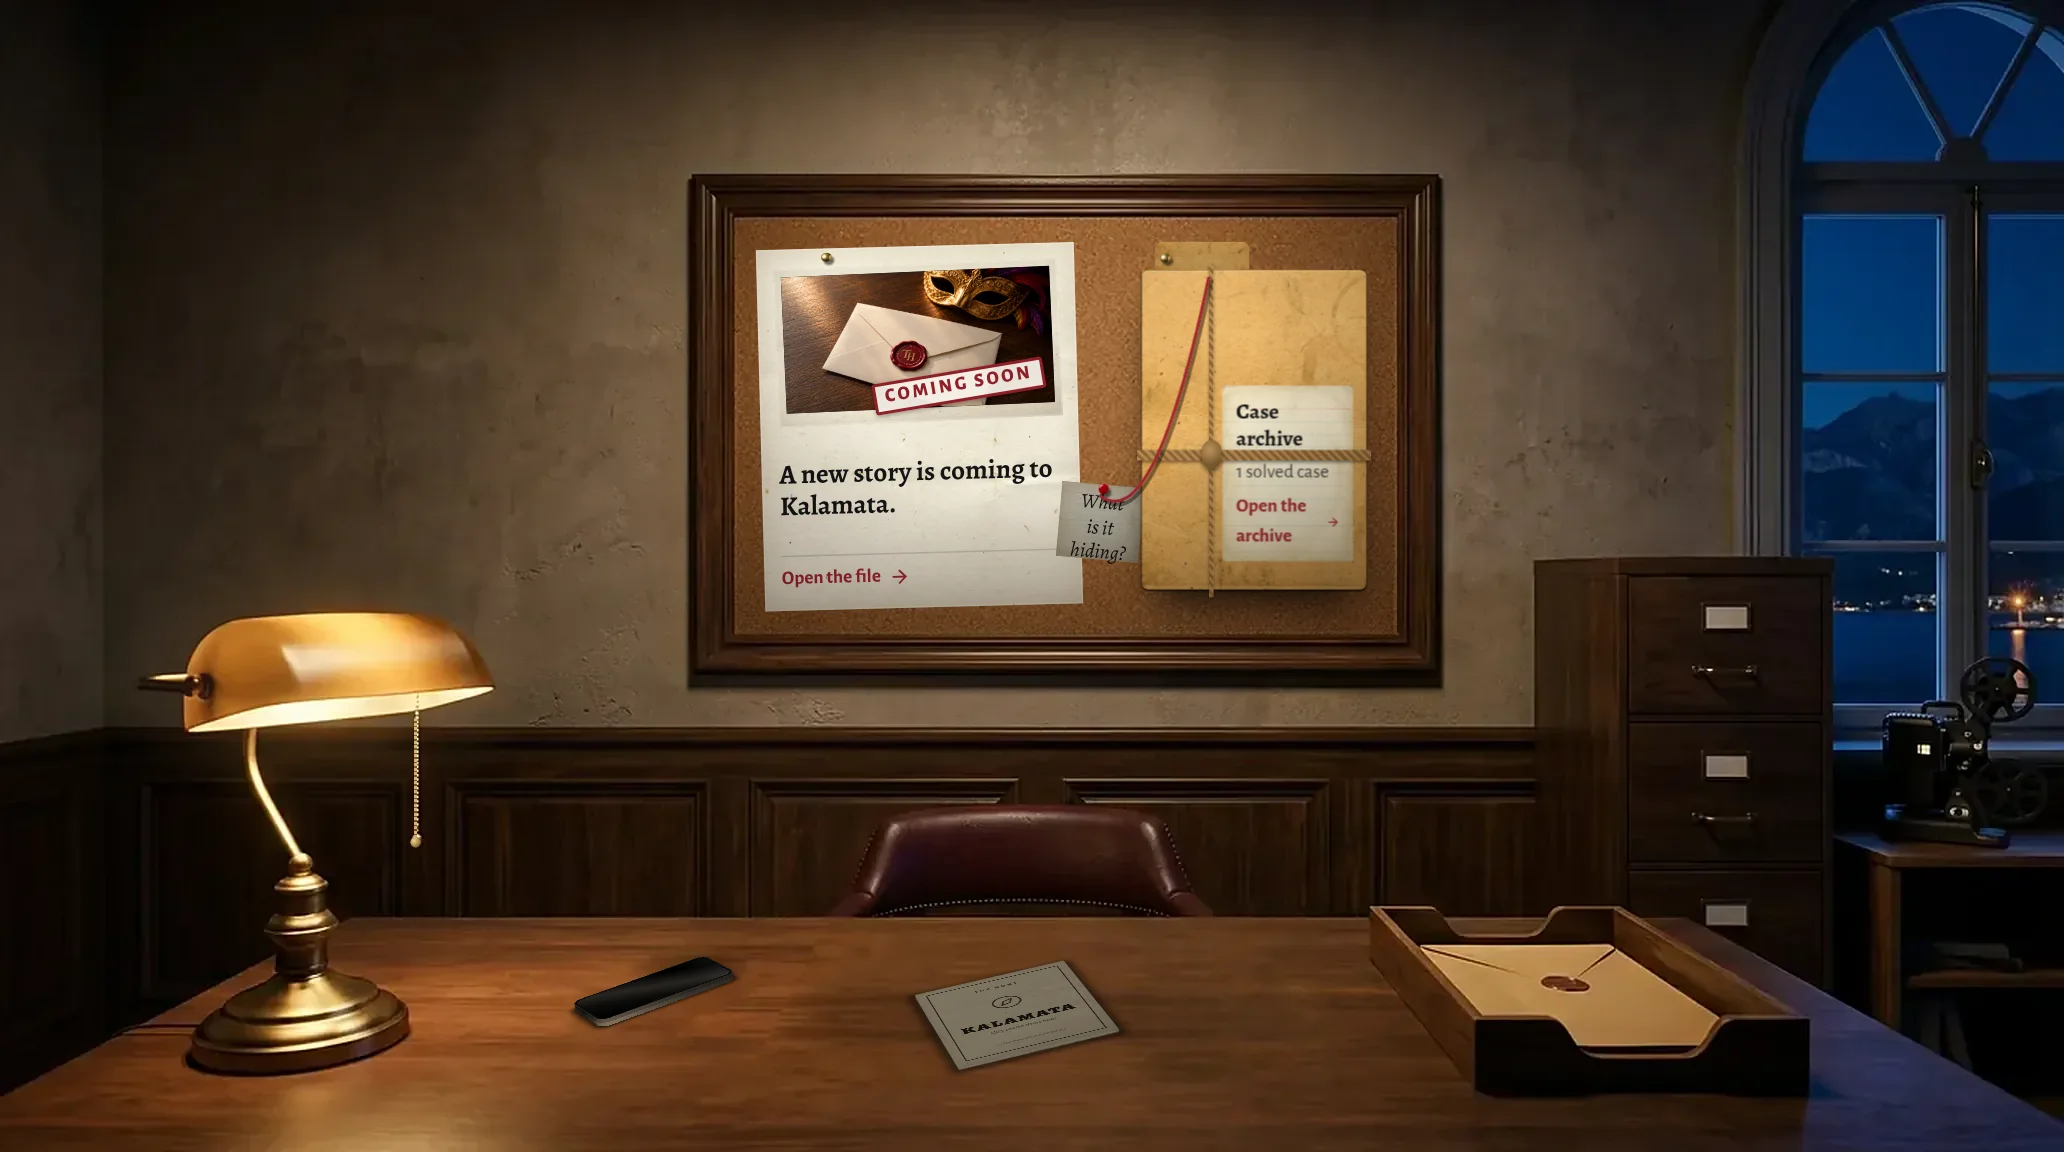
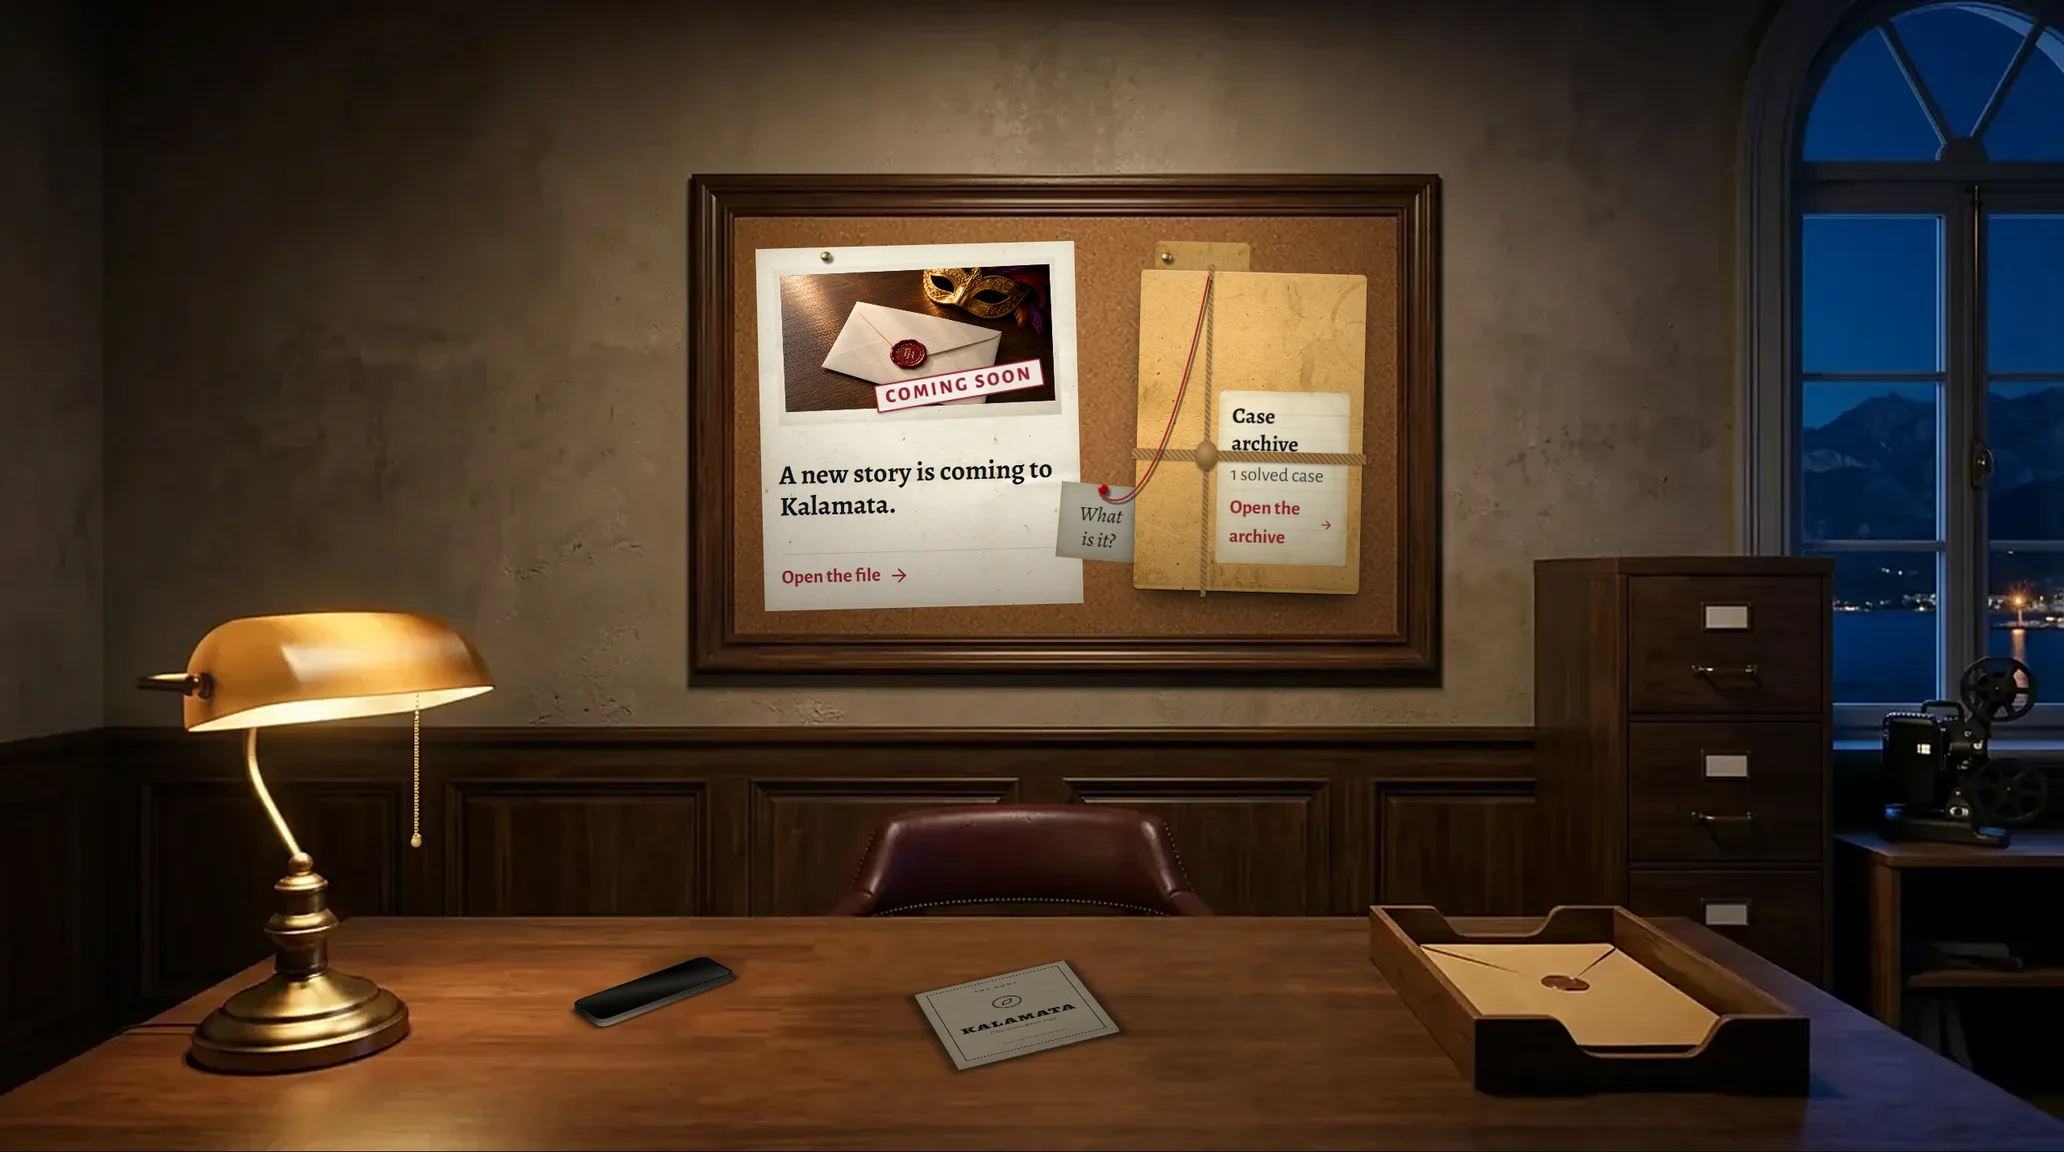
landing4: EN hero still + note 'What is it?'

diff --git a/components/office/office-page.tsx b/components/office/office-page.tsx
@@ -166,7 +166,7 @@ export function OfficePage() {
             onToggleLocale={toggle}
             open={open}
             board={board("wall")}
-            heroPlate={`/office/room-hero-${locale}.webp?v=2`}
+            heroPlate={`/office/room-hero-${locale}.webp?v=3`}
             reduce={reduce}
             ready={ready}
             skipTitle={state.view !== null || atBoard}
